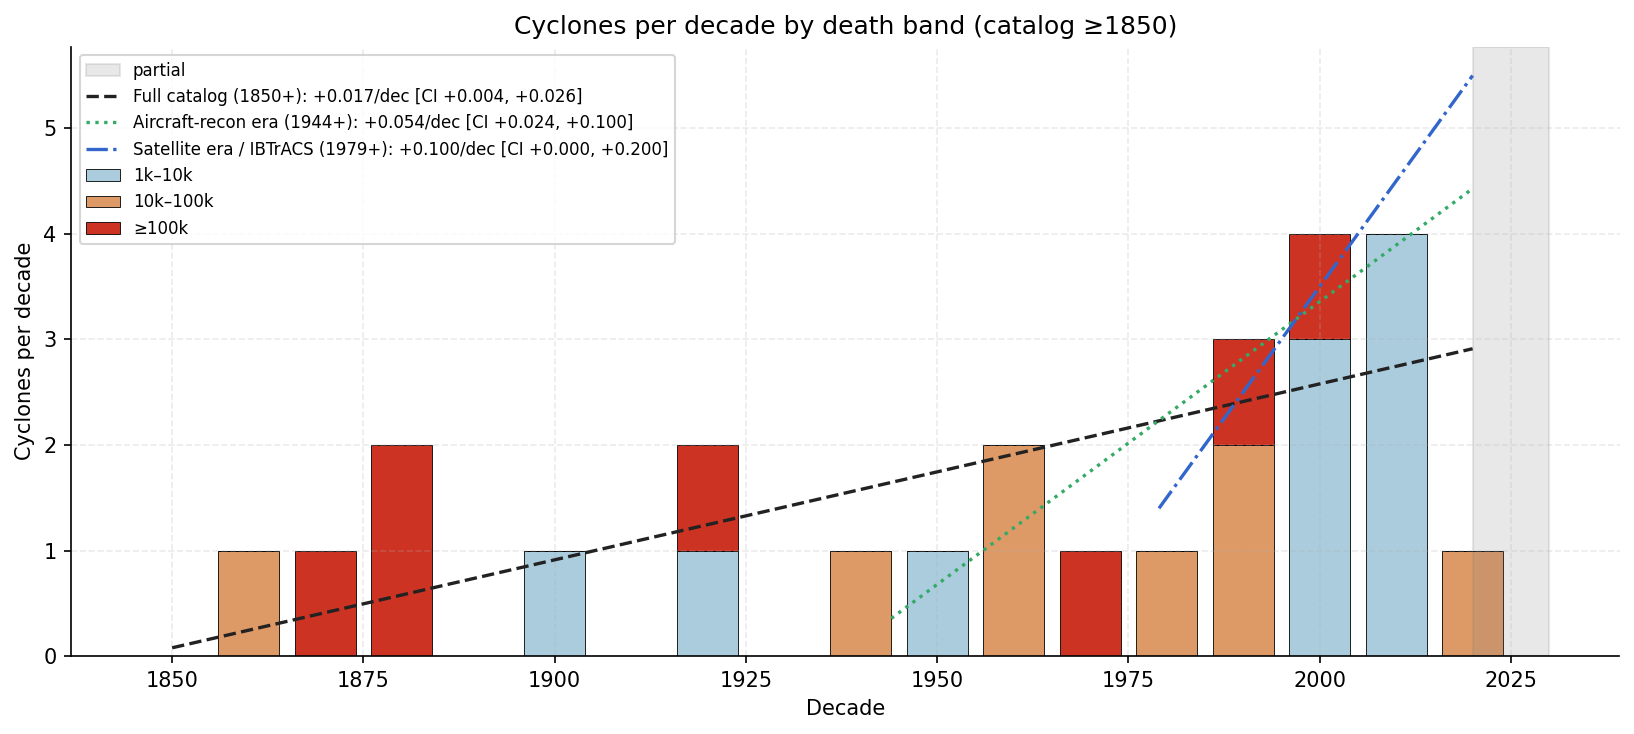
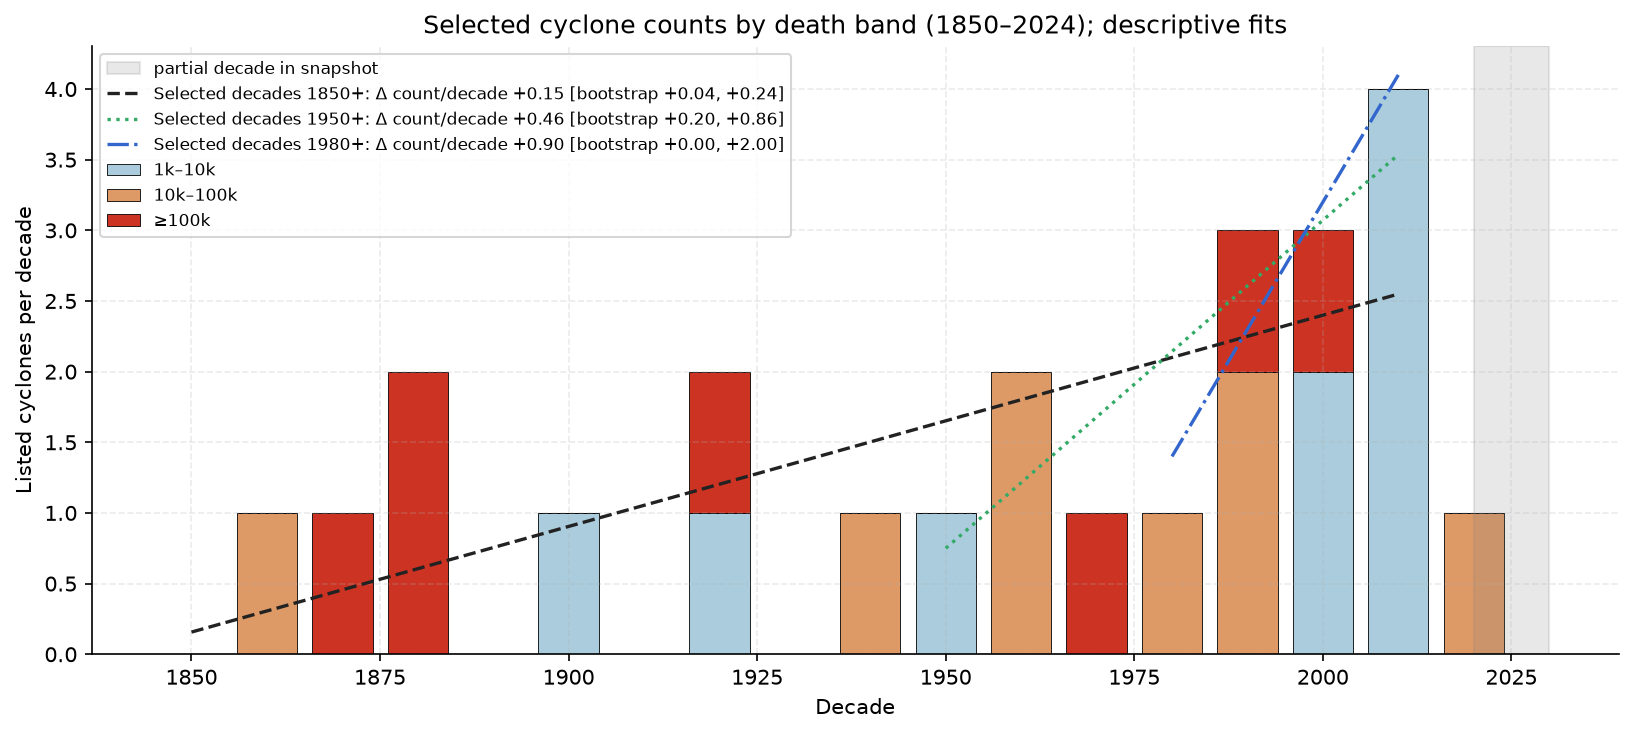
Remove duplicate Sidr entry and refresh selected-catalog diagnostics

diff --git a/make_plots.py b/make_plots.py
@@ -1,10 +1,8 @@
 """Tropical cyclone analysis plots.
 
-Conventions:
-- Detection-clean for ≥1000 deaths since ~1850 (telegraph era)
-- Aircraft recon 1944+; satellite 1979+
-- Cumulative-vs-constant for ≥10,000-death cyclones
-- Power-law on the tail
+These plots describe a selected historical event list, not complete global
+cyclone surveillance. Fatality totals combine physical hazard and human exposure.
+Reference fits do not establish acceleration, flatness, or a power-law model.
 """
 from __future__ import annotations
 from pathlib import Path
@@ -18,6 +16,7 @@ PLOTS = HERE / "plots"
 PLOTS.mkdir(exist_ok=True)
 
 CATALOG_START = 1850
+CATALOG_END = 2024  # Explicit represented snapshot scope, not inferred surveillance coverage.
 GREAT_CYCLONE_THRESHOLD = 10_000
 PARTIAL_DECADE_START = 2020
 
@@ -31,8 +30,25 @@ plt.rcParams.update({
 
 def load_events() -> pd.DataFrame:
     df = pd.read_csv(HERE / "cyclones.csv")
-    df["deaths_estimate"] = pd.to_numeric(df["deaths_estimate"], errors="coerce").fillna(0)
+    df["deaths_estimate"] = pd.to_numeric(df["deaths_estimate"], errors="coerce")
     return df
+
+
+def fit_line(x, y, min_points=2):
+    """Descriptive OLS with explicit guards for unusable or constant inputs."""
+    x, y = np.asarray(x, dtype=float), np.asarray(y, dtype=float)
+    valid = np.isfinite(x) & np.isfinite(y)
+    x, y = x[valid], y[valid]
+    if len(x) < min_points or np.unique(x).size < 2:
+        return None
+    if np.ptp(y) == 0:
+        return 0.0, float(y[0])
+    centered = x - x.mean()
+    variance = float(np.dot(centered, centered))
+    if variance <= 0:
+        return None
+    slope = float(np.dot(centered, y-y.mean()) / variance)
+    return slope, float(y.mean()-slope*x.mean())
 
 
 def fmt_thousands(x, _):
@@ -40,6 +56,7 @@ def fmt_thousands(x, _):
 
 
 def plot_01_deaths_timeline(df: pd.DataFrame):
+    df = df[df['deaths_estimate'] > 0].copy()
     fig, ax = plt.subplots(figsize=(11, 5.5))
     sizes = np.clip(np.sqrt(df["deaths_estimate"]) / 4, 30, 1200)
     colors = ["#cc3322" if d >= GREAT_CYCLONE_THRESHOLD else "#3377aa"
@@ -49,7 +66,7 @@ def plot_01_deaths_timeline(df: pd.DataFrame):
     ax.set_yscale("log")
     ax.set_ylabel("Deaths (log)")
     ax.set_xlabel("Year")
-    ax.set_title("Tropical cyclone deaths over time — red = ≥10,000 deaths, bubble size ∝ √deaths")
+    ax.set_title("Selected cyclone deaths — red ≥10,000; bubble size ∝ √deaths")
     ax.yaxis.set_major_formatter(mticker.FuncFormatter(fmt_thousands))
     # Annotate biggest
     for _, row in df.nlargest(8, "deaths_estimate").iterrows():
@@ -68,7 +85,7 @@ def plot_02_decadal_counts_by_band(df: pd.DataFrame):
              (10_000, 100_000, "10k–100k", "#dd9966"),
              (100_000, np.inf, "≥100k", "#cc3322")]
     fig, ax = plt.subplots(figsize=(11, 5))
-    decades = np.arange(CATALOG_START, 2030, 10)
+    decades = np.arange(CATALOG_START, CATALOG_END+1, 10)
     bottom = np.zeros(len(decades))
     for lo, hi, label, color in bands:
         counts = []
@@ -81,13 +98,13 @@ def plot_02_decadal_counts_by_band(df: pd.DataFrame):
                 color=color, edgecolor="black", linewidth=0.4)
         bottom += counts
     ax.axvspan(PARTIAL_DECADE_START, PARTIAL_DECADE_START + 10,
-                color="grey", alpha=0.18, label="partial")
+                color="grey", alpha=0.18, label="partial decade in snapshot")
     # Multi-era trend lines
     totals = np.array(bottom, dtype=float)
     eras = [
-        (CATALOG_START, "Full catalog (1850+)", "#222222", "--"),
-        (1944, "Aircraft-recon era (1944+)", "#33aa66", ":"),
-        (1979, "Satellite era / IBTrACS (1979+)", "#3366cc", "-."),
+        (CATALOG_START, "Selected decades 1850+", "#222222", "--"),
+        (1944, "Selected decades 1950+", "#33aa66", ":"),
+        (1979, "Selected decades 1980+", "#3366cc", "-."),
     ]
     fits = []
     rng = np.random.default_rng(42)
@@ -96,21 +113,29 @@ def plot_02_decadal_counts_by_band(df: pd.DataFrame):
         if mask.sum() < 3:
             fits.append((label, np.nan, np.nan, np.nan)); continue
         x_fit = decades[mask].astype(float); y_fit = totals[mask]
-        slope, intercept = np.polyfit(x_fit, y_fit, 1)
+        fit = fit_line(x_fit, y_fit, min_points=3)
+        if fit is None:
+            fits.append((label, np.nan, np.nan, np.nan)); continue
+        slope, intercept = fit
         boots = []
         for _ in range(2000):
             idx = rng.integers(0, len(x_fit), len(x_fit))
-            s, _ = np.polyfit(x_fit[idx], y_fit[idx], 1)
-            boots.append(s)
-        lo, hi = np.percentile(boots, [2.5, 97.5])
-        line_x = np.linspace(era_start, decades.max(), 50)
+            # A bootstrap draw may repeat one decade exclusively; its slope
+            # is undefined and must not enter the resampling distribution.
+            if np.unique(x_fit[idx]).size < 2:
+                continue
+            draw = fit_line(x_fit[idx], y_fit[idx])
+            if draw is not None:
+                boots.append(draw[0])
+        lo, hi = np.percentile(boots, [2.5, 97.5]) if len(boots) >= 2 else (np.nan, np.nan)
+        line_x = np.linspace(x_fit.min(), x_fit.max(), 50)
         ax.plot(line_x, slope * line_x + intercept, ls, color=color,
                   linewidth=1.6,
-                  label=f"{label}: {slope:+.3f}/dec [CI {lo:+.3f}, {hi:+.3f}]")
+                  label=f"{label}: Δ count/decade {slope*10:+.2f} [bootstrap {lo*10:+.2f}, {hi*10:+.2f}]")
         fits.append((label, slope, lo, hi))
     ax.set_xlabel("Decade")
-    ax.set_ylabel("Cyclones per decade")
-    ax.set_title(f"Cyclones per decade by death band (catalog ≥{CATALOG_START})")
+    ax.set_ylabel("Listed cyclones per decade")
+    ax.set_title(f"Selected cyclone counts by death band ({CATALOG_START}–{CATALOG_END}); descriptive fits")
     ax.legend(loc="upper left", fontsize=8)
     plt.tight_layout()
     plt.savefig(PLOTS / "02_decadal_counts_by_band.png")
@@ -119,23 +144,26 @@ def plot_02_decadal_counts_by_band(df: pd.DataFrame):
 
 
 def plot_03_great_cyclone_timing(df: pd.DataFrame):
-    great = df[df["deaths_estimate"] >= GREAT_CYCLONE_THRESHOLD].sort_values("year").reset_index(drop=True)
+    great = df[(df["deaths_estimate"] >= GREAT_CYCLONE_THRESHOLD) &
+               df['year'].between(CATALOG_START, CATALOG_END)].sort_values("year").reset_index(drop=True)
     great["n"] = np.arange(1, len(great) + 1)
     if len(great) < 2:
         return
-    span_yr = great["year"].iloc[-1] - CATALOG_START
+    span_yr = CATALOG_END - CATALOG_START + 1
+    if span_yr <= 0:
+        return
     rate = len(great) / span_yr
 
     fig, axes = plt.subplots(1, 2, figsize=(13, 5))
-    yrs = np.arange(CATALOG_START, 2026)
+    yrs = np.arange(CATALOG_START, CATALOG_END+2)
     ax = axes[0]
-    ax.step(great["year"], great["n"], where="post",
-            color="#cc3322", linewidth=2, label="Observed ≥10k cumulative")
+    ax.step(np.r_[great["year"], CATALOG_END+1], np.r_[great["n"], len(great)], where="post",
+            color="#cc3322", linewidth=2, label="Listed ≥10k cumulative")
     ax.plot(yrs, rate * (yrs - CATALOG_START), color="gray", linestyle="--",
-            label=f"Constant rate ({rate:.3f}/yr)")
+            label=f"Selected-list reference ({rate:.3f}/yr)")
     ax.set_xlabel("Year")
-    ax.set_ylabel("Cumulative ≥10,000-death cyclones")
-    ax.set_title(f"Cumulative vs constant-rate ({CATALOG_START}+)")
+    ax.set_ylabel("Cumulative listed ≥10,000-death cyclones")
+    ax.set_title(f"Selected events vs fixed-scope reference ({CATALOG_START}–{CATALOG_END})")
     ax.legend()
 
     ax = axes[1]
@@ -147,8 +175,8 @@ def plot_03_great_cyclone_timing(df: pd.DataFrame):
                     label=f"mean = {intervals.mean():.1f} yr")
         ax.set_xticks(range(len(intervals)))
         ax.set_xticklabels([f"#{i+1}" for i in range(len(intervals))], fontsize=8)
-        ax.set_ylabel("Years between great cyclones")
-        ax.set_title("Inter-event intervals")
+        ax.set_ylabel("Years between listed onsets")
+        ax.set_title("Year-resolution gaps within selected list")
         ax.legend()
     plt.tight_layout()
     plt.savefig(PLOTS / "03_great_cyclone_timing.png")
@@ -165,21 +193,25 @@ def plot_04_magnitude_distribution(df: pd.DataFrame):
     if tail_mask.sum() >= 5:
         x_tail = np.log10(deaths[tail_mask])
         y_tail = np.log10(survival[tail_mask])
-        slope, intercept = np.polyfit(x_tail, y_tail, 1)
-        alpha = -slope
+        fit = fit_line(x_tail, y_tail, min_points=5)
+        if fit is not None:
+            slope, intercept = fit
+            alpha = -slope
+        else:
+            alpha = None
     else:
         alpha = None
 
     fig, ax = plt.subplots(figsize=(9, 5))
     ax.loglog(deaths, survival, "o", color="#cc3322", alpha=0.7,
-                markeredgecolor="black", markersize=6, label="Cyclones")
+                markeredgecolor="black", markersize=6, label="Listed cyclones")
     if alpha is not None:
         xs = np.logspace(np.log10(1000), np.log10(deaths.max()), 50)
         ys = 10 ** intercept * xs ** slope
-        ax.loglog(xs, ys, "--", color="gray", label=f"Power-law fit α={alpha:.2f}")
+        ax.loglog(xs, ys, "--", color="gray", label=f"Descriptive log-log slope −{alpha:.2f}")
     ax.set_xlabel("Deaths (log)")
     ax.set_ylabel("Survival count")
-    ax.set_title("Cyclone death-toll distribution (tail above 1,000)")
+    ax.set_title("Selected death-toll distribution (≥1,000-death reference line)")
     ax.legend()
     plt.tight_layout()
     plt.savefig(PLOTS / "04_death_distribution.png")
@@ -193,9 +225,10 @@ def main():
     plot_01_deaths_timeline(df)
     fits = plot_02_decadal_counts_by_band(df)
     for label, slope, lo, hi in fits:
-        print(f"  {label:<40} {slope:+.3f}/dec  [CI {lo:+.3f}, {hi:+.3f}]")
+        print(f"  {label:<40} Δ count/decade {slope*10:+.2f} [bootstrap range {lo*10:+.2f}, {hi*10:+.2f}]")
     plot_03_great_cyclone_timing(df)
     plot_04_magnitude_distribution(df)
+    print("Fits describe selected catalogue rows; completeness and population trends are unestablished.")
     print(f"Wrote 4 plots to {PLOTS}/")
 
 

diff --git a/README.md b/README.md
@@ -1,81 +1,48 @@
 # tropical-cyclones
 
-Major hurricanes / typhoons / cyclones with ≥1000 deaths (with a few notable lower-death events included for impact).
+Selected historical cyclone events and descriptive plots. `cyclones.csv` contains **36 events spanning 1737–2024**, including **18 with reported deaths ≥10,000**. Most entries exceed 1,000 deaths; several lower-death events are included for context. This is a curated list, not a complete IBTrACS extract or a verified global mortality catalogue.
 
-One of 10 sibling repos analyzed together — see the [`correlations`](https://github.com/Biblejustin/correlations) hub for the cross-repo analysis.
+Part of the [`correlations`](https://github.com/Biblejustin/correlations) project.
 
-## Quick findings
+## Reading the plots
 
-- **37 major cyclones since 1737**; **18 with ≥10,000 deaths**.
-- **Bay of Bengal dominates the top of the distribution**: 1737 Hooghly River cyclone (300k), 1970 Bhola (500k — deadliest tropical cyclone ever recorded), 1881 Haiphong (300k), 1839 Coringa (300k), 1876 Backergunge (200k), 1991 Bangladesh cyclone (138k).
-- **No deadly-event drop-off in modern era despite forecasting improvements** — recent events like 2008 Cyclone Nargis (138k, Myanmar) and 2013 Typhoon Haiyan (6,340, Philippines) show that political/preparedness factors still drive death tolls more than meteorology.
-- **Post-1850 decadal trend = +0.017 cyclones/decade [95% CI +0.004, +0.026]** — small positive, but this is mostly catalog cleanup of pre-1900 undercounting. The 1950+ trend is flat.
-- **Power-law tail with α ≈ 0.43** on the log-log survival curve above 1,000 deaths. Same regime as quakes/famines/wars but flatter (heavier tail) — death tolls concentrate at the extreme.
-- **No US event over 10,000 deaths since 1900 Galveston** (≈8,000). Modern US cyclone deaths are dominated by inland flooding and infrastructure failure (Katrina 2005, Maria 2017, Helene 2024), not direct storm winds.
+Fatalities reflect storm characteristics, population exposure, preparedness, infrastructure and reporting. This list cannot separate those effects or establish that global cyclone frequency is rising, falling or flat. A high fatality threshold does not by itself establish historical completeness.
 
-## Sample output
+### Reported deaths over time
 
-### Cyclone deaths over time
+Each point represents a listed event with a positive mortality estimate. Red points have ≥10,000 reported deaths. The logarithmic axis accommodates the wide range of estimates; historical estimates remain uncertain.
 
-Deaths vs year, log scale; red = ≥10,000 deaths. The biggest events are annotated. Notable: the Bay of Bengal dominates the top of the distribution, and the 21st century is conspicuously full of mid-tier events but light on ≥100k catastrophes.
+![Selected cyclone deaths](plots/01_cyclone_deaths_timeline.png)
 
-**In plain English:** Each circle is one cyclone. The higher it is, the deadlier; the redder it is, the more catastrophic. The y-axis is log scale, meaning each step up is 10× more deaths — needed because death tolls range from hundreds to half a million. Most of the very-deadliest cyclones happened in the Bay of Bengal (Bhola 1970, Hooghly 1737, Haiphong 1881) — that region's combination of shallow water, dense coastal population, and storm tracks makes it the deadliest cyclone basin on Earth.
+### Selected counts by decade
 
-![Cyclone deaths timeline](plots/01_cyclone_deaths_timeline.png)
+Bars count listed events in three mortality bands. Lines describe the recorded counts across several historical subsets, excluding the partial 2020s decade. The legend reports the change in decadal count per elapsed decade and a bootstrap resampling range.
 
-### Cyclones per decade by death band
+Resampling describes sensitivity within this selected dataset. It does not correct selection bias, establish surveillance completeness, or provide a global cyclone trend. Bootstrap samples containing only one distinct decade are excluded because their slope is undefined. Constant count samples have zero descriptive slope.
 
-Stacked bars: cyclones per decade by death band (1k–10k, 10k–100k, ≥100k), 1850+. Dashed OLS trend with bootstrap 95% CI. The visible upward slope is mostly a pre-1900 detection-floor artifact; post-1900 the rate is roughly steady.
+![Selected decadal counts](plots/02_decadal_counts_by_band.png)
 
-**In plain English:** Each bar shows how many deadly cyclones occurred in that 10-year period. The dashed line is the trend — slightly upward, but most of that slope reflects records being more complete after 1900, not actual storms getting more frequent. Inside the modern era (post-1950 with aircraft reconnaissance and satellites), the count is roughly steady.
+### Timing of listed ≥10,000-death events
 
-**Above vs. below the line:** Decades whose bars stick *above* the dashed trend line had more catalogued deadly cyclones than the long-run average predicts; decades *below* the line had fewer. The 1960s–1970s and the 2000s–2010s bars rise above the line — busy stretches. The 1880s–1890s bars are well below — but that's almost certainly a *recording* gap (pre-telegraph cyclones in less-populated coasts went unrecorded), not a real "calmer" period.
+The staircase includes qualifying entries within the fixed 1850–2024 snapshot scope. The straight reference uses that entire interval, including years after the last qualifying entry. The gap panel uses recorded onset years; two events in one year can have a zero year-resolution gap. These figures do not test global acceleration or steady-state frequency.
 
-![Decadal counts](plots/02_decadal_counts_by_band.png)
+![Selected event timing](plots/03_great_cyclone_timing.png)
 
-### Great cyclone timing (≥10,000 deaths)
+### Reported mortality distribution
 
-Cumulative ≥10,000-death cyclone count since 1850 vs the constant-rate reference. Tests whether catastrophic cyclones are accelerating or steady-state.
+The survival-count plot describes positive mortality estimates in the list. Its log-log line is a descriptive fit above 1,000 deaths. It does not establish a power-law population distribution or comparability with other disaster catalogues.
 
-**In plain English:** Same idea as the volcano and pandemic versions. The grey line is "what we'd see if catastrophic cyclones came at a steady pace." The red staircase is what actually happened. **Above vs. below the line:** when the staircase is *above* the dashed reference, ≥10,000-death cyclones have been arriving *faster* than the long-run average rate (a busy stretch); *below* the line means they've been arriving *slower* (a quiet stretch). The cumulative line that runs roughly parallel to the reference is the case of "rate roughly steady."
+![Selected mortality distribution](plots/04_death_distribution.png)
 
-![Great cyclone timing](plots/03_great_cyclone_timing.png)
+## Data and limitations
 
-### Death-toll distribution
+Columns: `year`, `month`, `name`, `region`, `deaths_estimate`, `sources_notes`. Month precision does not support exact-day coincidence tests. Missing mortality remains unknown.
 
-Log-log survival function with power-law fit on the ≥1,000-death tail. α ≈ 0.43 — the heaviest tail of any disaster category in this project. A single Bhola-class event dominates the very-large-deaths bin.
+The erroneous May 2003 “Cyclone Sidr” row was removed; the November 2007 Sidr entry remains. Original source notes are retained. Direct event-level citations, stable source identifiers and an independently assessed inclusion rule are still needed before this list can support stronger population claims.
 
-**In plain English:** Reading the dots right to left: the further right, the deadlier; the lower a dot, the rarer events at that level are. The dashed line shows the predictable pattern that connects "small common cyclones" to "rare huge ones." The slope (α ≈ 0.43) is shallow compared to most other disaster categories — meaning when cyclones go bad, they go really bad. A single Bhola 1970 (500,000 deaths) is in a category of its own.
+Source references include [NOAA IBTrACS](https://www.ncei.noaa.gov/products/international-best-track-archive), national meteorological records, and EM-DAT/CRED mortality estimates. These references do not mean every listed estimate or the catalogue's completeness has been independently validated.
 
-**Above vs. below the line:** A dot *above* the dashed line means "more cyclones at this death-count than the scaling rule predicts" — a cluster at that severity. A dot *below* means "fewer than predicted." Looking at the chart: the dots in the 10,000–100,000-death band stack slightly above the line — a real cluster of mid-tier catastrophes (Bay of Bengal events). The handful of dots in the ≥300,000-death range fall further below the line — the truly worst events are even rarer than the scaling rule expects (or rather: Bhola is so far out that it's pulling the fit). The small-end deficit at the top-left is just the catalog cutoff at 1,000 deaths.
-
-![Death distribution](plots/04_death_distribution.png)
-
-## What's in it
-
-`cyclones.csv` — columns:
-
-- `year`, `month` — landfall / peak
-- `name` — common name (modern events have official IBTrACS names; pre-1953 unnamed events listed by location)
-- `region`
-- `deaths_estimate`
-- `sources_notes`
-
-Coverage: 1737 Hooghly River cyclone → 2024 Helene/Milton.
-
-## Detection-bias notes
-
-| Era | Coverage |
-|---|---|
-| Pre-1850 | Concentrated on European-colonial-trade-routes events; non-impacting cyclones unrecorded |
-| 1850–1900 | Telegraph-era; coastal landfalls in inhabited regions documented |
-| 1900–1950 | Meteorological services in major basins; open-ocean cyclones still missed |
-| 1950–present | Aircraft reconnaissance + radar; near-complete for Cat 1+ landfalls |
-| 1979–present | Satellite era; complete for tropical-storm-strength systems globally (IBTrACS) |
-
-For correlation work, **≥1000-deaths is the detection-clean band back to ~1850** (and arguably earlier in the Bay of Bengal, which has been a population hotspot for cyclone-prone shoreline for millennia).
-
-## Reproducing the plots
+## Reproduce plots
 
 ```bash
 python3 -m venv .venv
@@ -83,12 +50,4 @@ python3 -m venv .venv
 .venv/bin/python make_plots.py
 ```
 
-## Source
-
-- Primary: IBTrACS (International Best Track Archive for Climate Stewardship), NOAA — https://www.ncei.noaa.gov/products/international-best-track-archive
-- Pre-IBTrACS events: Boose et al. (2004), Emanuel (2005), various national meteorological records
-- Death-toll consensus from EM-DAT and the Centre for Research on the Epidemiology of Disasters
-
-## Intended use
-
-Data source for tropical-cyclone correlation tests in [`Biblejustin/correlations`](https://github.com/Biblejustin/correlations).
+Outputs are four PNGs under `plots/`. Empty, nonfinite or constant predictor inputs do not receive an undefined fitted slope.
